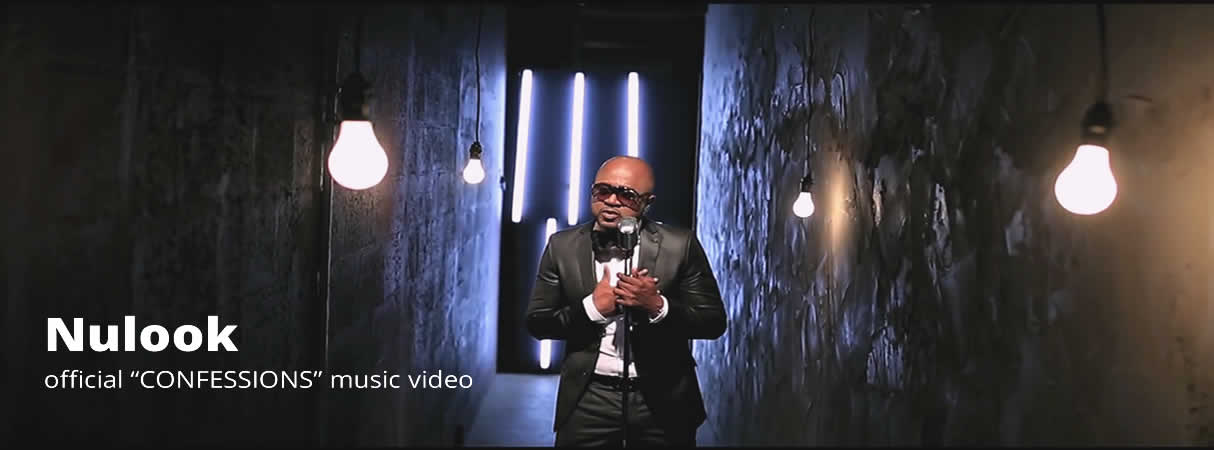
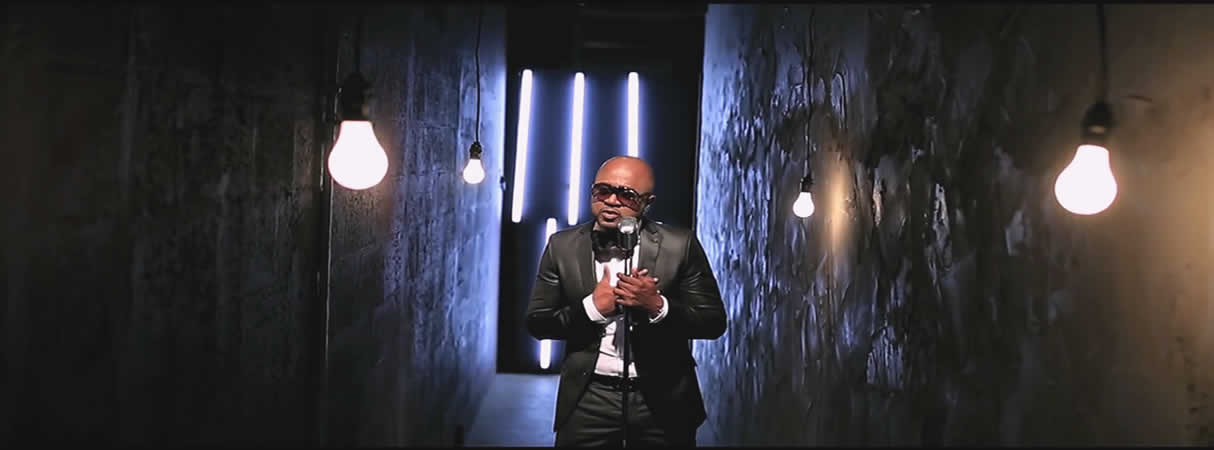
add migration to videos

Changed region(s): [[0.0305, 0.8089, 0.3962, 0.8711], [0.0305, 0.6844, 0.2133, 0.7778]]

diff --git a/app/assets/stylesheets/main.css.scss b/app/assets/stylesheets/main.css.scss
@@ -1,5 +1,5 @@
 h1.ui.header.title{
-    color: #9E373E;
+    color:#008CE3;
     font-size: 20px;
     text-align: left;
     position: relative;
@@ -14,9 +14,9 @@ p.sub{
 }
 
 .button.ui.facebook.button{
-    position:relative;
-    top:60px;
-    left:-35px;
+    position: relative;
+    top: 100px;
+    left: -35px;
 }
 
 .hero img{
@@ -24,4 +24,104 @@ p.sub{
     width:100%;
     height:450px;
     margin-top:25px;
+}
+
+.ui.form {
+    top: 35px;
+}
+
+.actions{
+    position: relative;
+    top: 40px;
+    margin-bottom: 120px;
+}
+
+.actions a{
+    font-size:13px;
+}
+
+.song_info{
+    position: relative;
+    top: -250px;
+    left: 50px;
+    width: 550px;
+}
+
+.song_info h2{
+    font-family: 'Lato', sans-serif;
+    font-size:42px;
+    font-weight:900;
+    color:#fff;
+    margin-bottom:none;
+}
+
+.song_info p{
+    font-family: 'Lato', sans-serif;
+    font-size:26px;
+    font-weight:300;
+    color:#fff; 
+    position:relative;
+    top:-23px;
+}
+
+.song_info p span{
+    font-family: 'Lato', sans-serif;
+    font-size:26px;
+    font-weight:400;
+    color:#fff; 
+    text-transform:uppercase;
+}
+
+.song_info p.blurb{
+    font-family: "Lato",sans-serif;
+    font-size: 20px;
+    font-weight: 300;
+    font-style: italic;
+    position: relative;
+    top: -50px;
+    color: #F90094;
+}
+
+.play img{
+    width: 53px;
+    height: 53px;
+    position: relative;
+    top: -300px;
+    left: 550px;
+}
+
+.play img:hover{
+    width: 53px;
+    height: 53px;
+    position: relative;
+    top: -300px;
+    left: 550px;
+}
+
+.footer{
+    width:100%;
+    height:80px;
+    background-color:#008CE3;
+    display:block;
+    position: relative;
+    bottom: 0px;
+}
+
+.foot_info{
+    position: relative;
+}
+
+.foot_info img{
+    position: relative;
+    top: 20px;
+    margin-right: 8px;  
+}
+
+.foot_info span{
+    position: relative;
+    top: 9px;
+    font-family: "Lato",sans-serif;
+    font-size: 14px;
+    font-weight: 700;
+    color: #fff;   
 }

diff --git a/app/assets/stylesheets/application.css.scss b/app/assets/stylesheets/application.css.scss
@@ -15,7 +15,7 @@
  */
  
  @import "semantic-ui";
-
+ @import url(http://fonts.googleapis.com/css?family=Lato:400,700,300,900);
   
 body{
     background-color:#EEEEEE;

diff --git a/app/models/video.rb b/app/models/video.rb
@@ -1,6 +1,6 @@
 class Video < ActiveRecord::Base
   if Rails.env.development?
-    has_attached_file :image, :styles => { :main=> "564x394#",:medium => "208x200#", :thumb => "100x100>", :avatar =>"64x64#", }, :default_url => "default_:style.png"
+    has_attached_file :image, :styles => { :main=> "1214x450#",:medium => "208x200#", :thumb => "100x100>", :avatar =>"64x64#", }, :default_url => "default_:style.png"
   else
     has_attached_file :image, :styles => { :main=> "564x394#",:medium => "208x200#", :thumb => "100x100>", :avatar =>"64x64>", }, :default_url => "default_:style.png",
                       :storage => :dropbox,

diff --git a/db/schema.rb b/db/schema.rb
@@ -11,7 +11,7 @@
 #
 # It's strongly recommended that you check this file into your version control system.
 
-ActiveRecord::Schema.define(version: 20150718211636) do
+ActiveRecord::Schema.define(version: 20150719172124) do
 
   create_table "users", force: true do |t|
     t.string   "email",                  default: "", null: false
@@ -42,6 +42,8 @@ ActiveRecord::Schema.define(version: 20150718211636) do
     t.string   "poster"
     t.datetime "created_at"
     t.datetime "updated_at"
+    t.string   "blurb"
+    t.string   "Wistia"
   end
 
 end

diff --git a/db/migrate/20150719172124_add_wistia_to_video.rb b/db/migrate/20150719172124_add_wistia_to_video.rb
@@ -1,0 +1,5 @@
+class AddWistiaToVideo < ActiveRecord::Migration
+  def change
+    add_column :videos, :Wistia, :string
+  end
+end

diff --git a/db/migrate/20150719172043_add_blurb_to_video.rb b/db/migrate/20150719172043_add_blurb_to_video.rb
@@ -1,0 +1,5 @@
+class AddBlurbToVideo < ActiveRecord::Migration
+  def change
+    add_column :videos, :blurb, :string
+  end
+end
